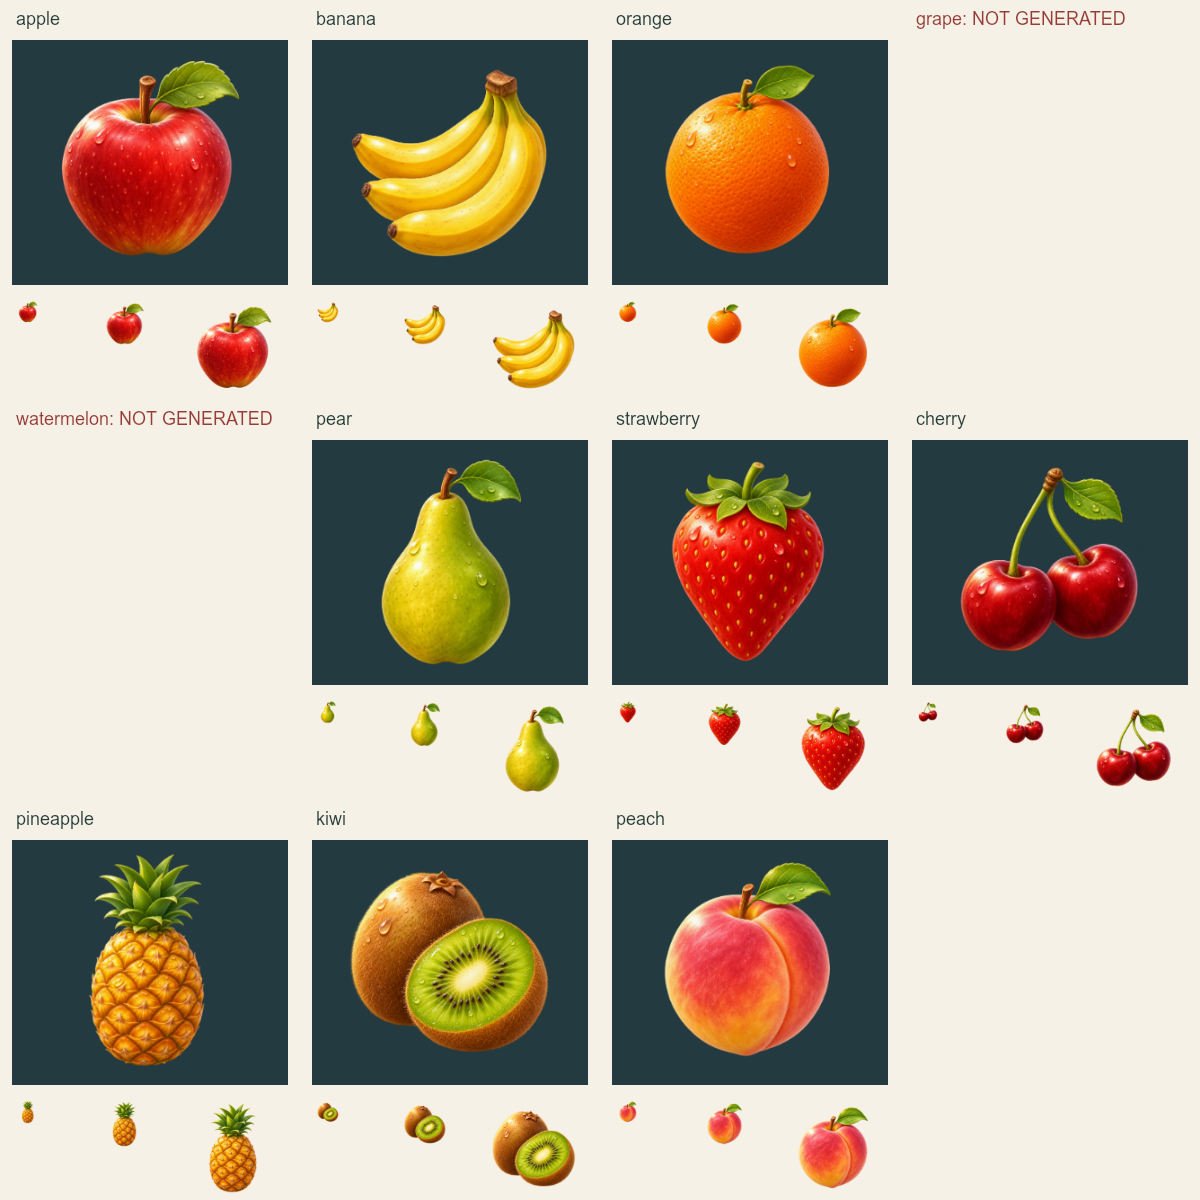
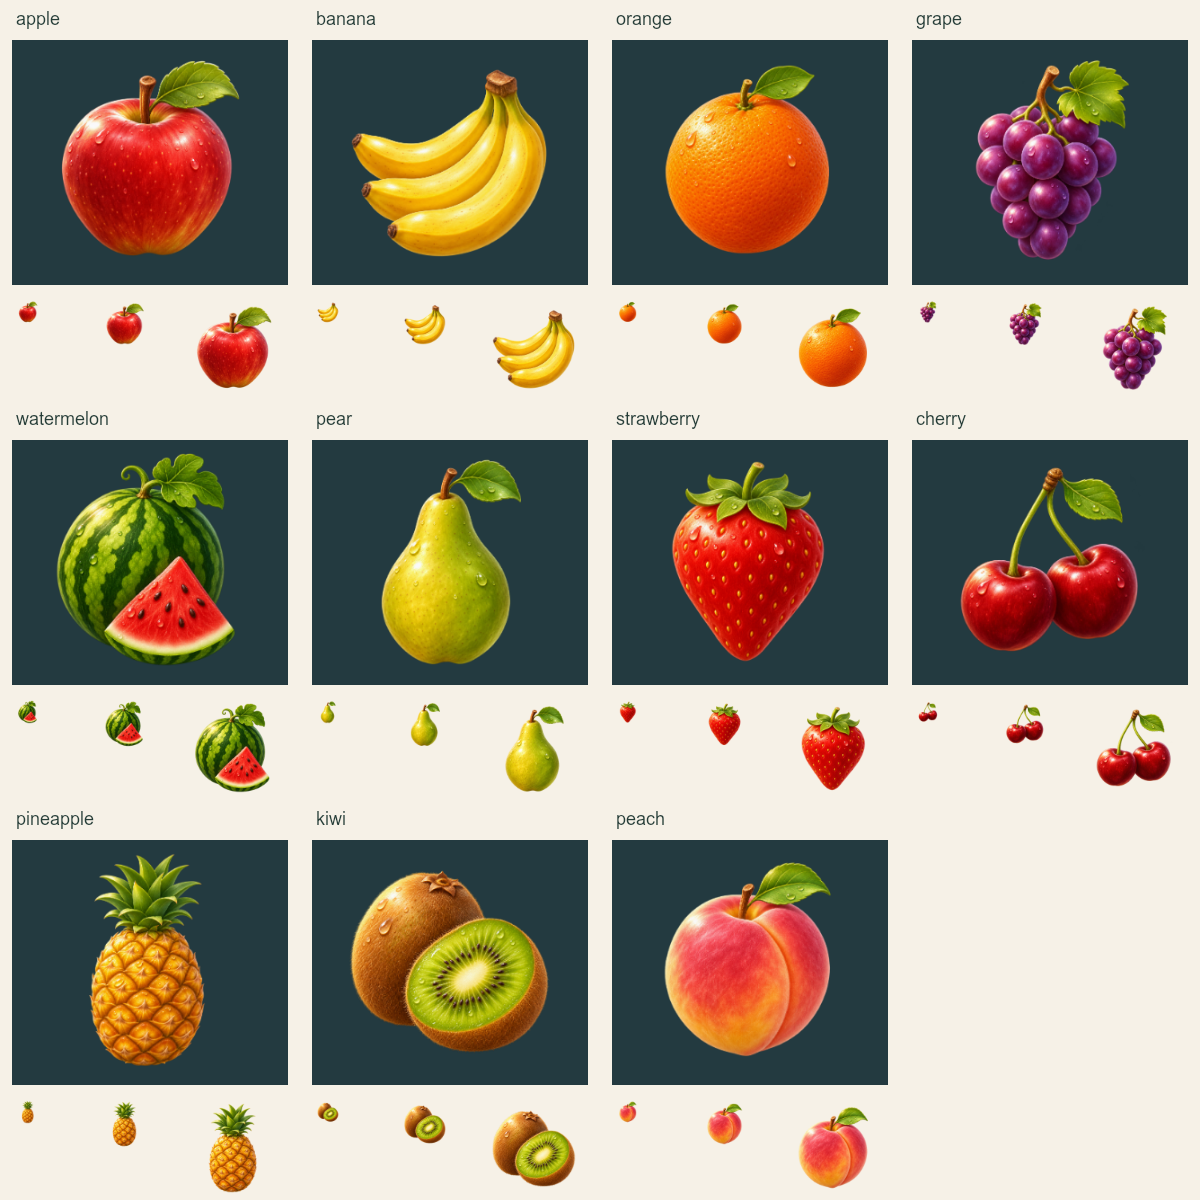
feat: complete eleven-fruit art review batch

Changed region(s): [[0.74, 0.0, 1.0, 0.3392], [0.0, 0.3392, 0.2467, 0.6783]]

diff --git a/docs/visual-audit/fruits/review.html b/docs/visual-audit/fruits/review.html
@@ -1,1 +1,1 @@
-<!doctype html><html lang="zh-CN"><meta charset="utf-8"><meta name="viewport" content="width=device-width,initial-scale=1"><title>水果素材进度审查</title><style>body{margin:24px;background:#f6f1e7;color:#263d38;font:16px system-ui}main{display:grid;grid-template-columns:repeat(auto-fit,minmax(min(100%,360px),1fr));gap:20px}article{background:white;padding:18px;border-radius:16px}.pair{display:flex}.pair img{width:50%;object-fit:contain;background:#fff5de}.pair .dark{background:#233a40}.sizes{display:flex;flex-wrap:wrap;align-items:end}figure{margin:10px}figcaption,p{font-size:13px;line-height:1.7}</style><h1>水果素材 · 9/11</h1><p>尚缺：grape、watermelon（生成服务网络失败，重试仍失败）。沿用苹果代表样张，其余逐张生成。每词一份透明母版共用展示/战斗候选。未替换游戏入口，整套视觉、实际场景及设备验收仍待完成。</p><main><article><h2>apple · 苹果</h2><div class="pair"><img src="variants/apple-256.png"><img class="dark" src="variants/apple-256.png"></div><div class="sizes"><figure><img src="variants/apple-64.png" width="24"><figcaption>64px · 5.8 KiB</figcaption></figure><figure><img src="variants/apple-128.png" width="24"><figcaption>128px · 19.5 KiB</figcaption></figure><figure><img src="variants/apple-256.png" width="146"><figcaption>256px · 68.1 KiB</figcaption></figure><figure><img src="variants/apple-512.png" width="146"><figcaption>512px · 241.0 KiB</figcaption></figure></div><p>小图显示24 CSS px，大图146 CSS px。各设备DPR/Boss放大与动态场景仍待验证。</p></article><article><h2>banana · 香蕉</h2><div class="pair"><img src="variants/banana-256.png"><img class="dark" src="variants/banana-256.png"></div><div class="sizes"><figure><img src="variants/banana-64.png" width="24"><figcaption>64px · 5.3 KiB</figcaption></figure><figure><img src="variants/banana-128.png" width="24"><figcaption>128px · 16.6 KiB</figcaption></figure><figure><img src="variants/banana-256.png" width="146"><figcaption>256px · 54.5 KiB</figcaption></figure><figure><img src="variants/banana-512.png" width="146"><figcaption>512px · 185.8 KiB</figcaption></figure></div><p>小图显示24 CSS px，大图146 CSS px。各设备DPR/Boss放大与动态场景仍待验证。</p></article><article><h2>orange · 橙子</h2><div class="pair"><img src="variants/orange-256.png"><img class="dark" src="variants/orange-256.png"></div><div class="sizes"><figure><img src="variants/orange-64.png" width="24"><figcaption>64px · 4.9 KiB</figcaption></figure><figure><img src="variants/orange-128.png" width="24"><figcaption>128px · 17.3 KiB</figcaption></figure><figure><img src="variants/orange-256.png" width="146"><figcaption>256px · 62.4 KiB</figcaption></figure><figure><img src="variants/orange-512.png" width="146"><figcaption>512px · 220.3 KiB</figcaption></figure></div><p>小图显示24 CSS px，大图146 CSS px。各设备DPR/Boss放大与动态场景仍待验证。</p></article><article><h2>pear · 梨</h2><div class="pair"><img src="variants/pear-256.png"><img class="dark" src="variants/pear-256.png"></div><div class="sizes"><figure><img src="variants/pear-64.png" width="24"><figcaption>64px · 4.7 KiB</figcaption></figure><figure><img src="variants/pear-128.png" width="24"><figcaption>128px · 14.8 KiB</figcaption></figure><figure><img src="variants/pear-256.png" width="146"><figcaption>256px · 49.3 KiB</figcaption></figure><figure><img src="variants/pear-512.png" width="146"><figcaption>512px · 171.0 KiB</figcaption></figure></div><p>小图显示24 CSS px，大图146 CSS px。各设备DPR/Boss放大与动态场景仍待验证。</p></article><article><h2>strawberry · 草莓</h2><div class="pair"><img src="variants/strawberry-256.png"><img class="dark" src="variants/strawberry-256.png"></div><div class="sizes"><figure><img src="variants/strawberry-64.png" width="24"><figcaption>64px · 5.4 KiB</figcaption></figure><figure><img src="variants/strawberry-128.png" width="24"><figcaption>128px · 17.5 KiB</figcaption></figure><figure><img src="variants/strawberry-256.png" width="146"><figcaption>256px · 59.5 KiB</figcaption></figure><figure><img src="variants/strawberry-512.png" width="146"><figcaption>512px · 209.1 KiB</figcaption></figure></div><p>小图显示24 CSS px，大图146 CSS px。各设备DPR/Boss放大与动态场景仍待验证。</p></article><article><h2>cherry · 樱桃</h2><div class="pair"><img src="variants/cherry-256.png"><img class="dark" src="variants/cherry-256.png"></div><div class="sizes"><figure><img src="variants/cherry-64.png" width="24"><figcaption>64px · 5.1 KiB</figcaption></figure><figure><img src="variants/cherry-128.png" width="24"><figcaption>128px · 15.8 KiB</figcaption></figure><figure><img src="variants/cherry-256.png" width="146"><figcaption>256px · 52.1 KiB</figcaption></figure><figure><img src="variants/cherry-512.png" width="146"><figcaption>512px · 179.2 KiB</figcaption></figure></div><p>小图显示24 CSS px，大图146 CSS px。各设备DPR/Boss放大与动态场景仍待验证。</p></article><article><h2>pineapple · 菠萝</h2><div class="pair"><img src="variants/pineapple-256.png"><img class="dark" src="variants/pineapple-256.png"></div><div class="sizes"><figure><img src="variants/pineapple-64.png" width="24"><figcaption>64px · 5.5 KiB</figcaption></figure><figure><img src="variants/pineapple-128.png" width="24"><figcaption>128px · 18.2 KiB</figcaption></figure><figure><img src="variants/pineapple-256.png" width="146"><figcaption>256px · 61.1 KiB</figcaption></figure><figure><img src="variants/pineapple-512.png" width="146"><figcaption>512px · 209.1 KiB</figcaption></figure></div><p>小图显示24 CSS px，大图146 CSS px。各设备DPR/Boss放大与动态场景仍待验证。</p></article><article><h2>kiwi · 猕猴桃</h2><div class="pair"><img src="variants/kiwi-256.png"><img class="dark" src="variants/kiwi-256.png"></div><div class="sizes"><figure><img src="variants/kiwi-64.png" width="24"><figcaption>64px · 6.4 KiB</figcaption></figure><figure><img src="variants/kiwi-128.png" width="24"><figcaption>128px · 22.6 KiB</figcaption></figure><figure><img src="variants/kiwi-256.png" width="146"><figcaption>256px · 85.8 KiB</figcaption></figure><figure><img src="variants/kiwi-512.png" width="146"><figcaption>512px · 322.1 KiB</figcaption></figure></div><p>小图显示24 CSS px，大图146 CSS px。各设备DPR/Boss放大与动态场景仍待验证。</p></article><article><h2>peach · 桃子</h2><div class="pair"><img src="variants/peach-256.png"><img class="dark" src="variants/peach-256.png"></div><div class="sizes"><figure><img src="variants/peach-64.png" width="24"><figcaption>64px · 5.4 KiB</figcaption></figure><figure><img src="variants/peach-128.png" width="24"><figcaption>128px · 18.0 KiB</figcaption></figure><figure><img src="variants/peach-256.png" width="146"><figcaption>256px · 63.2 KiB</figcaption></figure><figure><img src="variants/peach-512.png" width="146"><figcaption>512px · 232.5 KiB</figcaption></figure></div><p>小图显示24 CSS px，大图146 CSS px。各设备DPR/Boss放大与动态场景仍待验证。</p></article></main></html>
+<!doctype html><html lang="zh-CN"><meta charset="utf-8"><meta name="viewport" content="width=device-width,initial-scale=1"><title>水果素材进度审查</title><style>body{margin:24px;background:#f6f1e7;color:#263d38;font:16px system-ui}main{display:grid;grid-template-columns:repeat(auto-fit,minmax(min(100%,360px),1fr));gap:20px}article{background:white;padding:18px;border-radius:16px}.pair{display:flex}.pair img{width:50%;object-fit:contain;background:#fff5de}.pair .dark{background:#233a40}.sizes{display:flex;flex-wrap:wrap;align-items:end}figure{margin:10px}figcaption,p{font-size:13px;line-height:1.7}</style><h1>水果素材 · 11/11</h1><p>全部母版已生成。沿用苹果代表样张，其余逐张生成。每词一份透明母版共用展示/战斗候选。未替换游戏入口，整套视觉、实际场景及设备验收仍待完成。</p><main><article><h2>apple · 苹果</h2><div class="pair"><img src="variants/apple-256.png"><img class="dark" src="variants/apple-256.png"></div><div class="sizes"><figure><img src="variants/apple-64.png" width="24"><figcaption>64px · 5.8 KiB</figcaption></figure><figure><img src="variants/apple-128.png" width="24"><figcaption>128px · 19.5 KiB</figcaption></figure><figure><img src="variants/apple-256.png" width="146"><figcaption>256px · 68.1 KiB</figcaption></figure><figure><img src="variants/apple-512.png" width="146"><figcaption>512px · 241.0 KiB</figcaption></figure></div><p>小图显示24 CSS px，大图146 CSS px。各设备DPR/Boss放大与动态场景仍待验证。</p></article><article><h2>banana · 香蕉</h2><div class="pair"><img src="variants/banana-256.png"><img class="dark" src="variants/banana-256.png"></div><div class="sizes"><figure><img src="variants/banana-64.png" width="24"><figcaption>64px · 5.3 KiB</figcaption></figure><figure><img src="variants/banana-128.png" width="24"><figcaption>128px · 16.6 KiB</figcaption></figure><figure><img src="variants/banana-256.png" width="146"><figcaption>256px · 54.5 KiB</figcaption></figure><figure><img src="variants/banana-512.png" width="146"><figcaption>512px · 185.8 KiB</figcaption></figure></div><p>小图显示24 CSS px，大图146 CSS px。各设备DPR/Boss放大与动态场景仍待验证。</p></article><article><h2>orange · 橙子</h2><div class="pair"><img src="variants/orange-256.png"><img class="dark" src="variants/orange-256.png"></div><div class="sizes"><figure><img src="variants/orange-64.png" width="24"><figcaption>64px · 4.9 KiB</figcaption></figure><figure><img src="variants/orange-128.png" width="24"><figcaption>128px · 17.3 KiB</figcaption></figure><figure><img src="variants/orange-256.png" width="146"><figcaption>256px · 62.4 KiB</figcaption></figure><figure><img src="variants/orange-512.png" width="146"><figcaption>512px · 220.3 KiB</figcaption></figure></div><p>小图显示24 CSS px，大图146 CSS px。各设备DPR/Boss放大与动态场景仍待验证。</p></article><article><h2>grape · 葡萄</h2><div class="pair"><img src="variants/grape-256.png"><img class="dark" src="variants/grape-256.png"></div><div class="sizes"><figure><img src="variants/grape-64.png" width="24"><figcaption>64px · 5.6 KiB</figcaption></figure><figure><img src="variants/grape-128.png" width="24"><figcaption>128px · 18.4 KiB</figcaption></figure><figure><img src="variants/grape-256.png" width="146"><figcaption>256px · 60.8 KiB</figcaption></figure><figure><img src="variants/grape-512.png" width="146"><figcaption>512px · 206.6 KiB</figcaption></figure></div><p>小图显示24 CSS px，大图146 CSS px。各设备DPR/Boss放大与动态场景仍待验证。</p></article><article><h2>watermelon · 西瓜</h2><div class="pair"><img src="variants/watermelon-256.png"><img class="dark" src="variants/watermelon-256.png"></div><div class="sizes"><figure><img src="variants/watermelon-64.png" width="24"><figcaption>64px · 7.1 KiB</figcaption></figure><figure><img src="variants/watermelon-128.png" width="24"><figcaption>128px · 23.8 KiB</figcaption></figure><figure><img src="variants/watermelon-256.png" width="146"><figcaption>256px · 83.5 KiB</figcaption></figure><figure><img src="variants/watermelon-512.png" width="146"><figcaption>512px · 297.5 KiB</figcaption></figure></div><p>小图显示24 CSS px，大图146 CSS px。各设备DPR/Boss放大与动态场景仍待验证。</p></article><article><h2>pear · 梨</h2><div class="pair"><img src="variants/pear-256.png"><img class="dark" src="variants/pear-256.png"></div><div class="sizes"><figure><img src="variants/pear-64.png" width="24"><figcaption>64px · 4.7 KiB</figcaption></figure><figure><img src="variants/pear-128.png" width="24"><figcaption>128px · 14.8 KiB</figcaption></figure><figure><img src="variants/pear-256.png" width="146"><figcaption>256px · 49.3 KiB</figcaption></figure><figure><img src="variants/pear-512.png" width="146"><figcaption>512px · 171.0 KiB</figcaption></figure></div><p>小图显示24 CSS px，大图146 CSS px。各设备DPR/Boss放大与动态场景仍待验证。</p></article><article><h2>strawberry · 草莓</h2><div class="pair"><img src="variants/strawberry-256.png"><img class="dark" src="variants/strawberry-256.png"></div><div class="sizes"><figure><img src="variants/strawberry-64.png" width="24"><figcaption>64px · 5.4 KiB</figcaption></figure><figure><img src="variants/strawberry-128.png" width="24"><figcaption>128px · 17.5 KiB</figcaption></figure><figure><img src="variants/strawberry-256.png" width="146"><figcaption>256px · 59.5 KiB</figcaption></figure><figure><img src="variants/strawberry-512.png" width="146"><figcaption>512px · 209.1 KiB</figcaption></figure></div><p>小图显示24 CSS px，大图146 CSS px。各设备DPR/Boss放大与动态场景仍待验证。</p></article><article><h2>cherry · 樱桃</h2><div class="pair"><img src="variants/cherry-256.png"><img class="dark" src="variants/cherry-256.png"></div><div class="sizes"><figure><img src="variants/cherry-64.png" width="24"><figcaption>64px · 5.1 KiB</figcaption></figure><figure><img src="variants/cherry-128.png" width="24"><figcaption>128px · 15.8 KiB</figcaption></figure><figure><img src="variants/cherry-256.png" width="146"><figcaption>256px · 52.1 KiB</figcaption></figure><figure><img src="variants/cherry-512.png" width="146"><figcaption>512px · 179.2 KiB</figcaption></figure></div><p>小图显示24 CSS px，大图146 CSS px。各设备DPR/Boss放大与动态场景仍待验证。</p></article><article><h2>pineapple · 菠萝</h2><div class="pair"><img src="variants/pineapple-256.png"><img class="dark" src="variants/pineapple-256.png"></div><div class="sizes"><figure><img src="variants/pineapple-64.png" width="24"><figcaption>64px · 5.5 KiB</figcaption></figure><figure><img src="variants/pineapple-128.png" width="24"><figcaption>128px · 18.2 KiB</figcaption></figure><figure><img src="variants/pineapple-256.png" width="146"><figcaption>256px · 61.1 KiB</figcaption></figure><figure><img src="variants/pineapple-512.png" width="146"><figcaption>512px · 209.1 KiB</figcaption></figure></div><p>小图显示24 CSS px，大图146 CSS px。各设备DPR/Boss放大与动态场景仍待验证。</p></article><article><h2>kiwi · 猕猴桃</h2><div class="pair"><img src="variants/kiwi-256.png"><img class="dark" src="variants/kiwi-256.png"></div><div class="sizes"><figure><img src="variants/kiwi-64.png" width="24"><figcaption>64px · 6.4 KiB</figcaption></figure><figure><img src="variants/kiwi-128.png" width="24"><figcaption>128px · 22.6 KiB</figcaption></figure><figure><img src="variants/kiwi-256.png" width="146"><figcaption>256px · 85.8 KiB</figcaption></figure><figure><img src="variants/kiwi-512.png" width="146"><figcaption>512px · 322.1 KiB</figcaption></figure></div><p>小图显示24 CSS px，大图146 CSS px。各设备DPR/Boss放大与动态场景仍待验证。</p></article><article><h2>peach · 桃子</h2><div class="pair"><img src="variants/peach-256.png"><img class="dark" src="variants/peach-256.png"></div><div class="sizes"><figure><img src="variants/peach-64.png" width="24"><figcaption>64px · 5.4 KiB</figcaption></figure><figure><img src="variants/peach-128.png" width="24"><figcaption>128px · 18.0 KiB</figcaption></figure><figure><img src="variants/peach-256.png" width="146"><figcaption>256px · 63.2 KiB</figcaption></figure><figure><img src="variants/peach-512.png" width="146"><figcaption>512px · 232.5 KiB</figcaption></figure></div><p>小图显示24 CSS px，大图146 CSS px。各设备DPR/Boss放大与动态场景仍待验证。</p></article></main></html>

diff --git a/docs/requirements-2026-11-02-followup.md b/docs/requirements-2026-11-02-followup.md
@@ -1020,3 +1020,11 @@
 - 新增`scripts/prepare-fruit-art.mts`直接核对正式11词、学习词音路径，生成等比例64/128/256/512候选、alpha/哈希清单、浅深底审查页。默认缺图即失败；本轮显式使用`--allow-incomplete`，页面与清单均标9/11及两个缺项。
 - 9词（含既有苹果）透明检查通过，36个尺寸候选已生成，母版及小尺寸总览已目视核对；128档合计160.3KiB、256档555.9KiB、512档1970.1KiB，仅统计已完成词条。Chrome后台审样页54个图片引用全部解码成功，1440视口无横向溢出。源码包体检查通过，无运行时代码改动。
 - #84保持开放，未替换正式入口；缺两张母版及整套视觉确认、真实战斗/Boss/动态与微信设备验收。不将生成失败描述为完成，也不以桌面审查替代设备验收。
+
+### 2026-11-09 提交核验并补齐#84剩余水果
+
+- 本轮“提交代码，继续下个”开始时，已有成果已提交为`dd1e4da`，仅Python缓存未跟踪，无待重复提交业务代码。读取43张开放工单清单、#84正文与空评论、11月8～9日需求及现行美术记录；本次补图范围未发现明确冲突，无旧单需关闭。
+- 内置image_gen沿用原提示词及苹果母版作风格参考，葡萄与西瓜均重试成功，保存到`docs/visual-audit/fruits/originals/`。历史网络失败与恢复状态同时保留；未切换CLI。
+- 严格模式完成11/11词、11张真实透明检查及44个尺寸候选；55份母版/候选字节和SHA256一致，审样页66个引用路径存在。128档202.5KiB、256档700.2KiB、512档2474.2KiB，后者超过单包预算，不能直接整套并入运行包。
+- 已目视核对两张母版及完整浅深底24/48/96尺寸总览，更新审样页。源码包体检查通过、运行资源未修改；本轮无新增浏览器、模拟器或真机结果，不用逻辑核验替代帽标/Boss/动态及设备验收。
+- #84保留开放，整套视觉审查与正式接入待后续；#72未确认兵种规则继续不实施。未推送或发布。

diff --git a/docs/visual-audit/fruits/README.md b/docs/visual-audit/fruits/README.md
@@ -1,5 +1,17 @@
 # #84 水果整套素材
 
+## 最新进度：11/11母版齐备（2026-11-09）
+
+本轮沿用 `prompts.json` 原提示词及苹果风格参考，内置 image_gen 重试葡萄与西瓜成功；已保存到 `originals/grape.png`、`originals/watermelon.png`。`generation-status.json` 保留早先网络失败记录，并记录恢复成功，不再有缺失母版。
+
+默认严格模式已通过：正式11词与词音映射核对、11张真实alpha检查、44个64/128/256/512候选生成。55份母版/候选文件字节与SHA256复核通过，审样页66个图片引用路径均存在。完整候选PNG合计64档61.1KiB、128档202.5KiB、256档700.2KiB、512档2474.2KiB；512档单套已超过2MiB，不能整体加入现有图片分包。
+
+已目视检查新增母版及完整浅深底总览，葡萄成串轮廓、西瓜条纹与红色切片可辨，24像素下细纹理弱化；不代表实际帽标、Boss、动态或设备验收。所有素材仍标记待整套视觉审查，未替换运行时入口。源码包体检查通过，运行包大小不变。本轮没有新浏览器或设备测试；下方54个图片解码等描述属于上一轮9词历史证据。
+
+完整审样：[review.html](review.html)，[contact-sheet.png](contact-sheet.png)。#84保持开放，后续按#87/#88正式接入、#86分包与#89设备验收推进。
+
+## 以下为上一轮9词制作记录
+
 2026-11-09：用户在上一轮明确询问“采用代表样张继续剩余水果”后再次要求“提交代码，继续下个”，本轮据此继续#84制作。此记录仅表示继续制作授权，不代替整套视觉或设备验收。既有工作已提交为`ce361b5`，未推送。
 
 ## 交付与边界

diff --git a/docs/visual-audit/README.md b/docs/visual-audit/README.md
@@ -92,3 +92,5 @@
 2026-11-09六张独立透明样张、尺寸/字节比较与手机/平板静态合成已完成，见[samples/README.md](samples/README.md)及[集中审样页](samples/review.html)。母版、提示词、哈希均保留。画风方向已确认，代表样张仍待审核，未替换运行时资源。整场风格差距与设备/动态证据缺口详见样张记录。
 
 后续用户再次要求“提交代码，继续下个”，本轮据上一轮明确提出的#84继续制作选项推进水果素材，不视为整套验收。已完成新增8词，连同苹果共9/11词；葡萄、西瓜首次及重试均遇内置图片服务网络错误。成果、36个尺寸候选及缺项见[水果进度审查](fruits/README.md)。#84保持开放，未接入游戏。
+
+2026-11-09 后续补齐：葡萄与西瓜内置生成重试成功，水果已达11/11母版、44个尺寸候选，透明及哈希核验通过。完整128档202.5KiB、256档700.2KiB；参见[完整水果审样](fruits/README.md)。仍待整套视觉/设备验收，未接入运行时。
